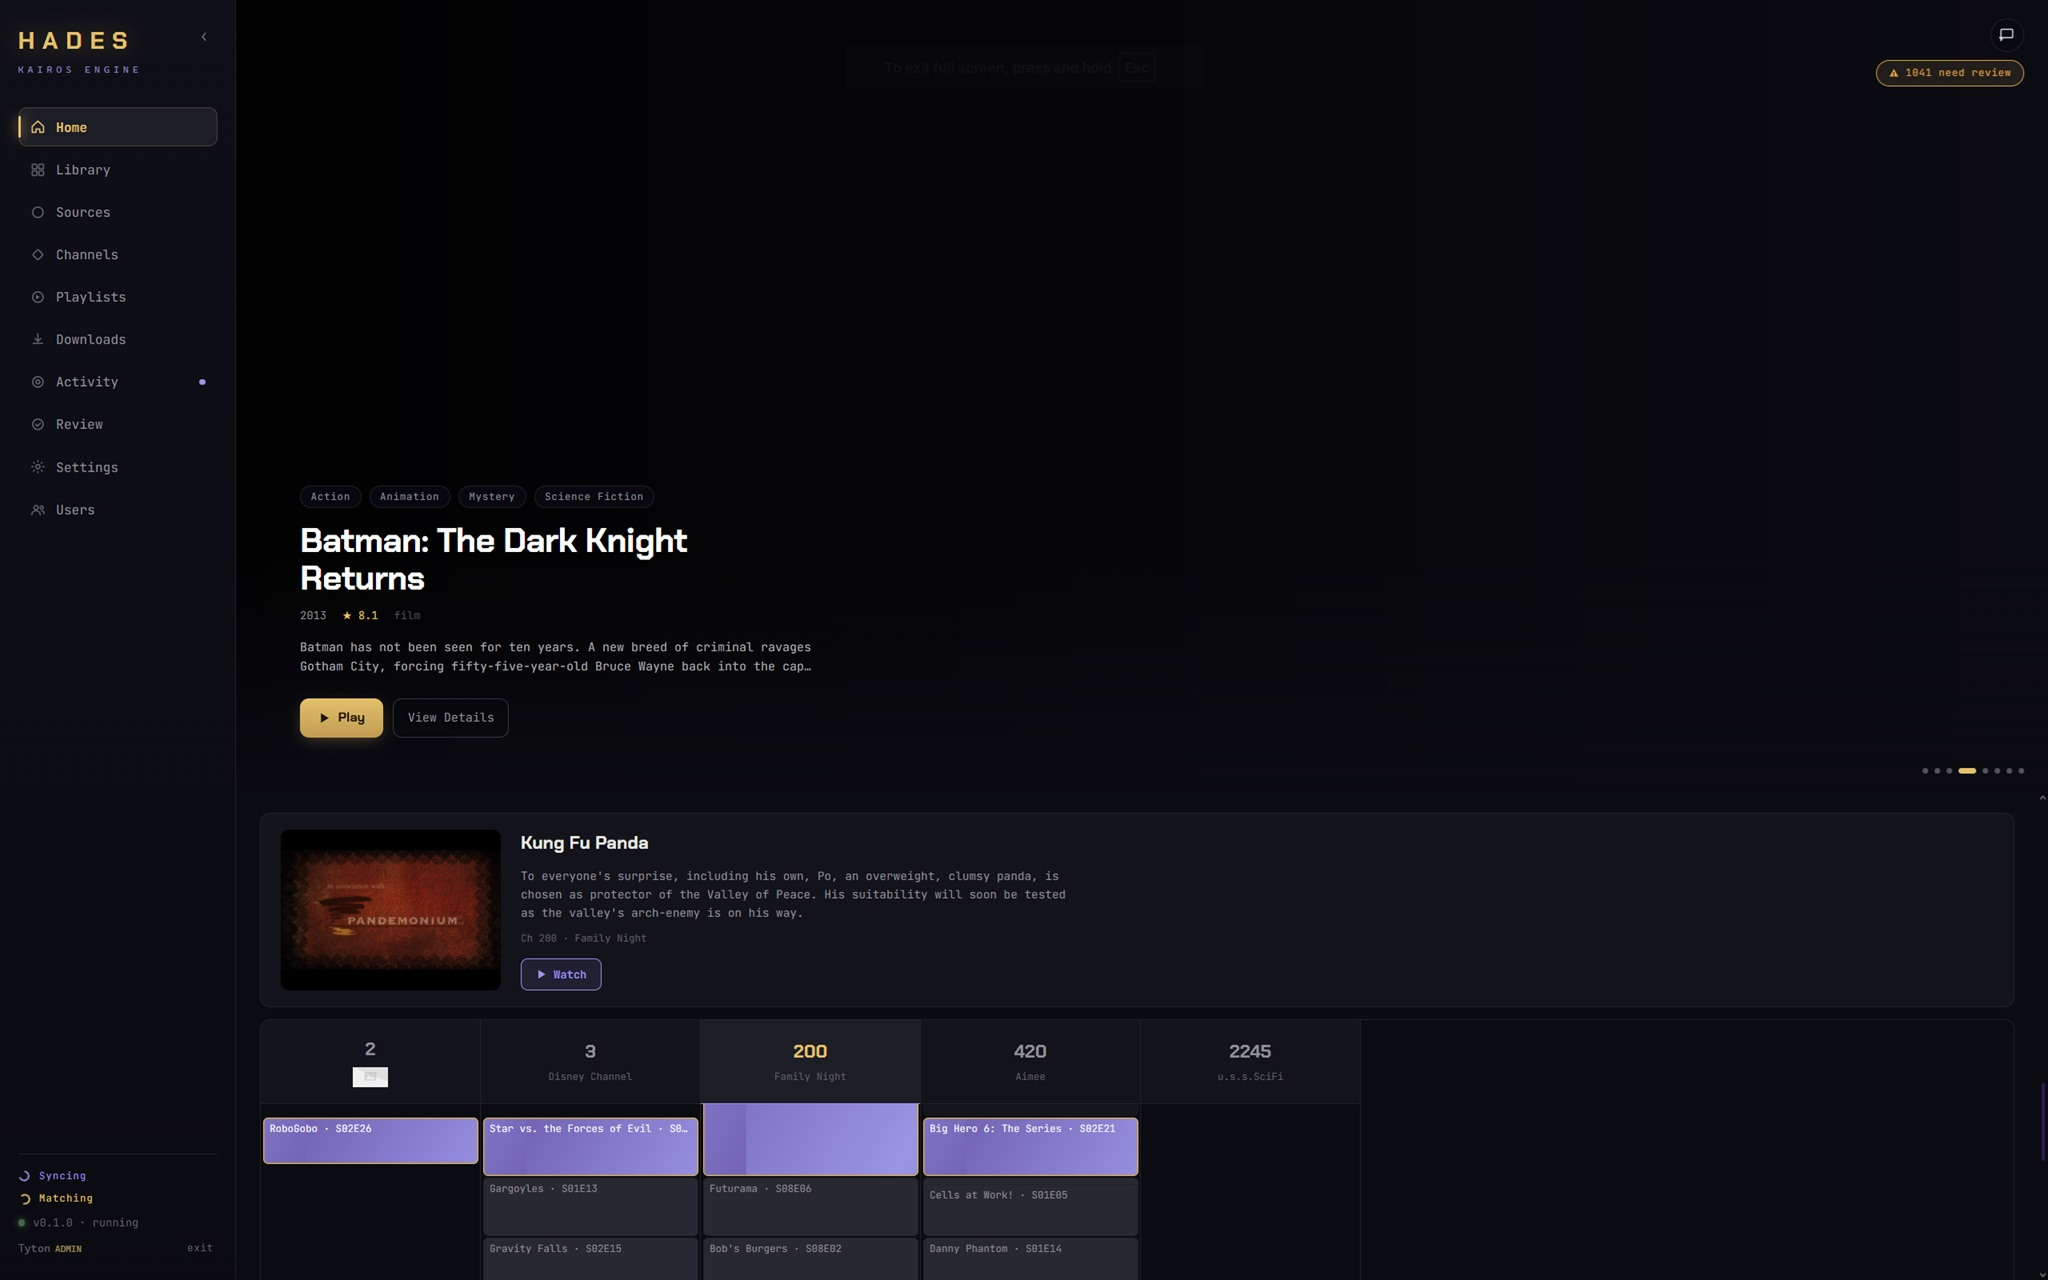
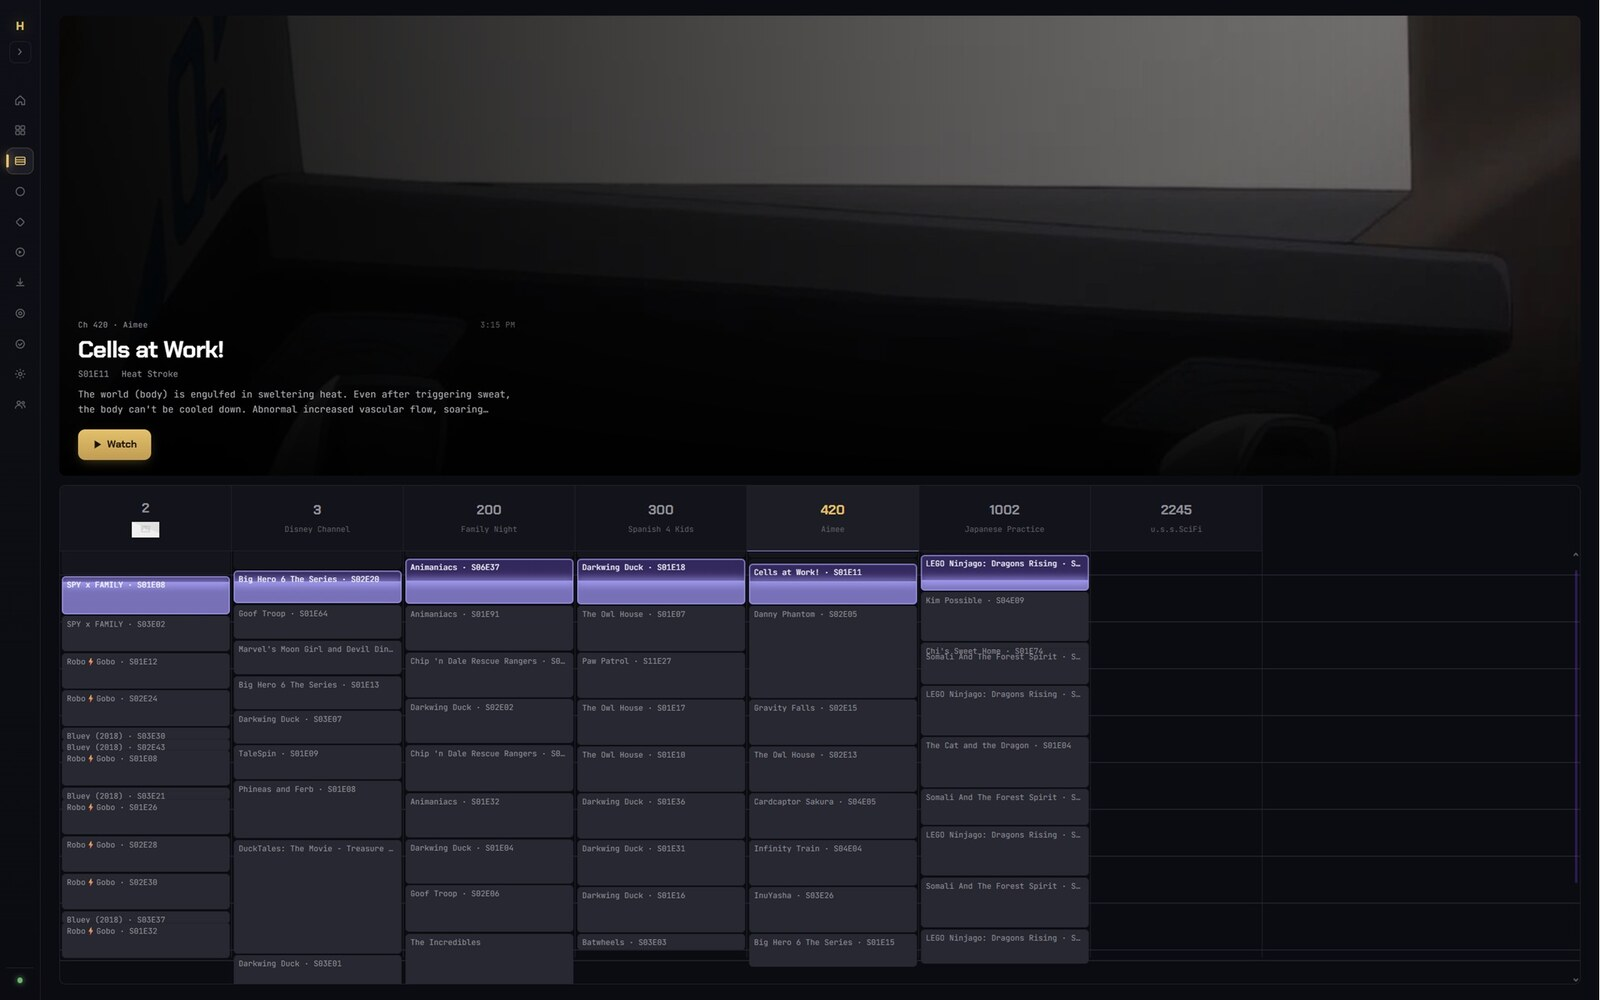
Updating docs with the new guide page.

diff --git a/docs/Screenshots.html b/docs/Screenshots.html
@@ -82,11 +82,14 @@
 
     <figure>
       <a class="frame" href="screens/Guide.jpg" target="_blank" rel="noopener">
-        <img src="screens/Guide.jpg" alt="Homepage guide grid showing a live schedule strip across channels with the current pick playing" loading="lazy">
+          <img src="screens/Guide.jpg"
+               alt="Hades' standalone Guide page showing a full channel-by-time EPG grid with the current pick playing above"
+               loading="lazy">
       </a>
       <figcaption>
         <div class="title"><span class="n">02</span> Live guide</div>
-        <p class="desc">Pop the guide open from Home for a live schedule grid across every channel — pick something and jump straight in without leaving the page.</p>
+          <p class="desc">Guide is its own page now, with a synced-header channel grid and a live, progress-aware
+              now-playing hero — pick anything airing right now and jump straight in.</p>
       </figcaption>
     </figure>
 

diff --git a/README.md b/README.md
@@ -11,15 +11,19 @@ A media platform built around three pillars:
 <table>
 <tr>
 <td width="50%"><a href="docs/screens/HomePage.jpg"><img src="docs/screens/HomePage.jpg" width="100%"/></a><br/><sub><b>Home</b> — hero carousel, Continue Watching, and library shelves.</sub></td>
-<td width="50%"><a href="docs/screens/BlockBuilder.jpg"><img src="docs/screens/BlockBuilder.jpg" width="100%"/></a><br/><sub><b>Channel builder</b> — paint a weekly schedule, live EPG preview included.</sub></td>
+<td width="50%"><a href="docs/screens/Guide.jpg"><img src="docs/screens/Guide.jpg" width="100%"/></a><br/><sub><b>Live guide</b> — its own page now, with a synced channel grid and a live now-playing hero.</sub></td>
 </tr>
 <tr>
 <td width="50%"><a href="docs/screens/Channels01.png"><img src="docs/screens/Channels01.png" width="100%"/></a><br/><sub><b>Channels</b> — every channel's day at a glance.</sub></td>
-<td width="50%"><a href="docs/screens/Sources01.png"><img src="docs/screens/Sources01.png" width="100%"/></a><br/><sub><b>Media sources</b> — Plex, Jellyfin, Emby, and local, side by side.</sub></td>
+<td width="50%"><a href="docs/screens/ChannelEditor.png"><img src="docs/screens/ChannelEditor.png" width="100%"/></a><br/><sub><b>Channel editor</b> — full weekly schedule grid with timezone, EPG seed, and content-rating settings.</sub></td>
 </tr>
 <tr>
+<td width="50%"><a href="docs/screens/Sources01.png"><img src="docs/screens/Sources01.png" width="100%"/></a><br/><sub><b>Media sources</b> — Plex, Jellyfin, Emby, and local, side by side.</sub></td>
 <td width="50%"><a href="docs/screens/Review01.png"><img src="docs/screens/Review01.png" width="100%"/></a><br/><sub><b>Metadata review</b> — accept or reject uncertain scraper matches.</sub></td>
+</tr>
+<tr>
 <td width="50%"><a href="docs/screens/Activity.png"><img src="docs/screens/Activity.png" width="100%"/></a><br/><sub><b>Live activity</b> — sync status, now playing, system resources.</sub></td>
+<td width="50%"></td>
 </tr>
 </table>
 
